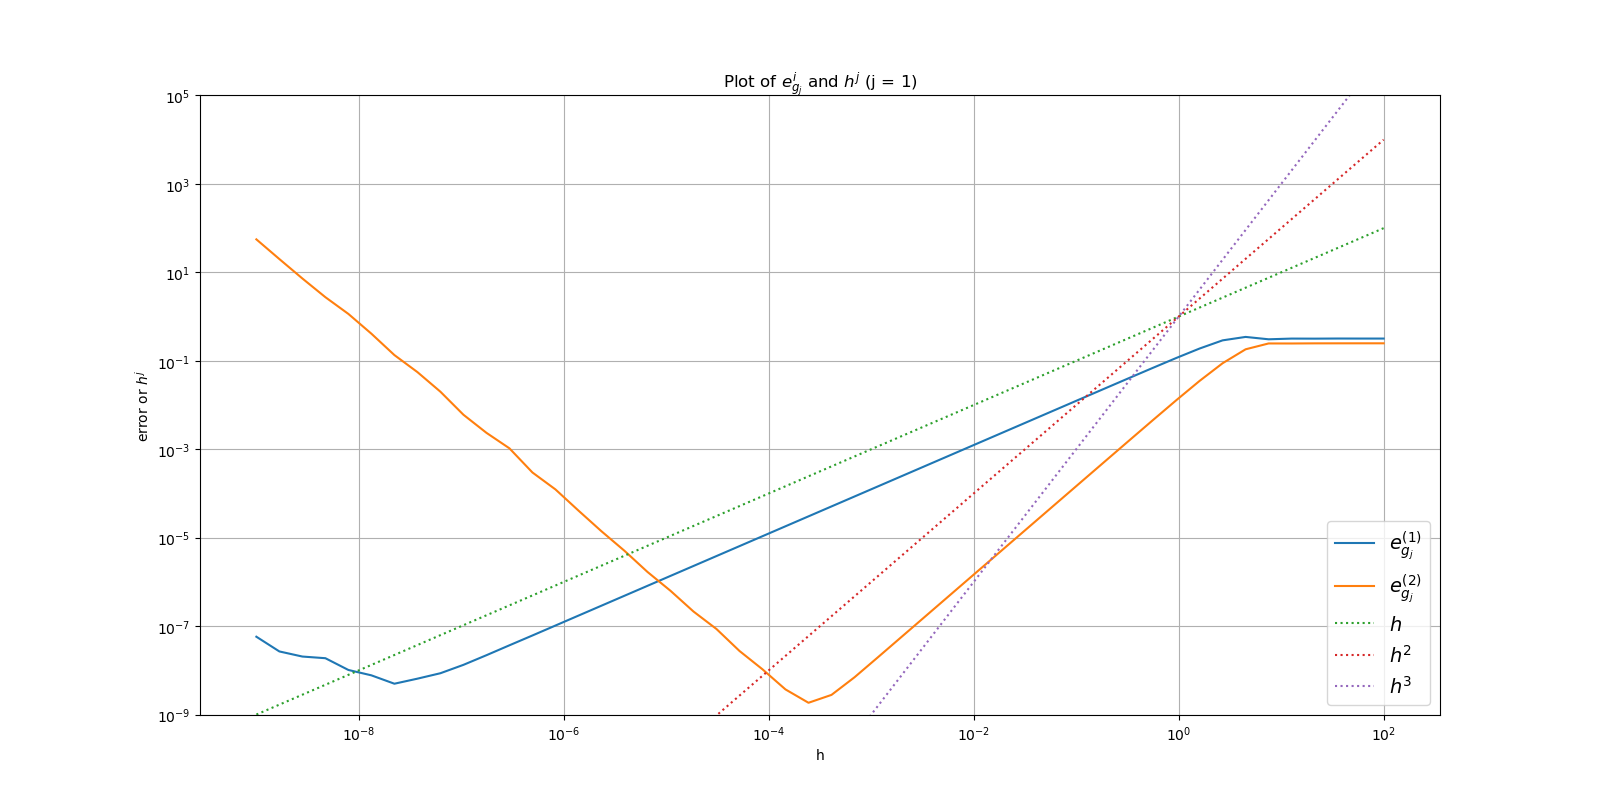
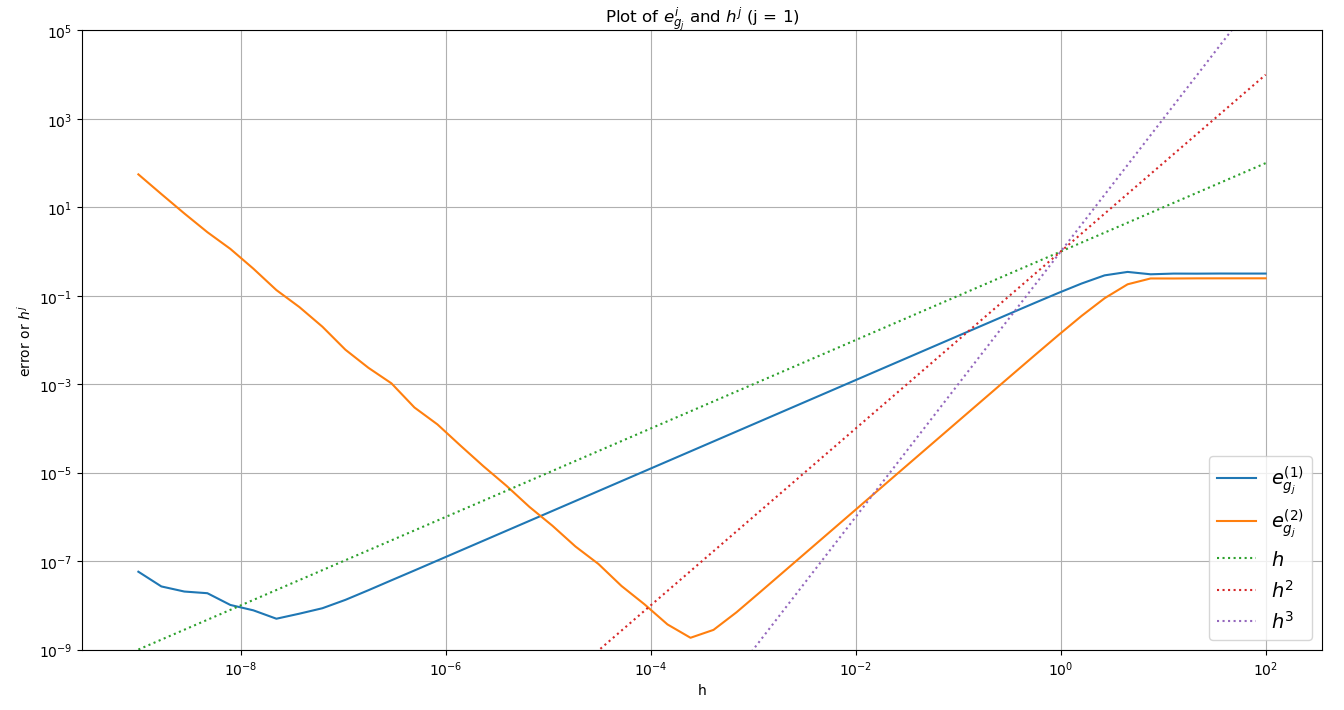
new image, new margins, new shit.

diff --git a/first_gate/protocol/contents/experiment1.tex b/first_gate/protocol/contents/experiment1.tex
@@ -17,21 +17,20 @@ We first want to get a picture of what we are working with. Therefore, using the
     \frac{\pi}{3} \text{,} \hspace{0.5cm} \frac{\pi}{4} \text{,} \hspace{0.5cm} \frac{\pi}{5} \text{,} \hspace{0.5cm} \frac{\pi}{10} \text{.}
 \end{align*}
 See figure \ref{fig:exp1_h} for the resulting graph.
-\pagebreak
 
 %%% figure the 4 plots for the h
 \begin{figure}[h!]
     \centering
-    \begin{subfigure}[b]{0.4\linewidth}
+    \begin{subfigure}[b]{0.49\linewidth}
         \includegraphics[width=\linewidth]{graphics/plot_h/exp1_huge_h.png}
     \end{subfigure}
-    \begin{subfigure}[b]{0.4\linewidth}
+    \begin{subfigure}[b]{0.49\linewidth}
         \includegraphics[width=\linewidth]{graphics/plot_h/exp1_large_h.png}
     \end{subfigure}
-    \begin{subfigure}[b]{0.4\linewidth}
+    \begin{subfigure}[b]{0.49\linewidth}
         \includegraphics[width=\linewidth]{graphics/plot_h/exp1_small_h.png}
     \end{subfigure}
-    \begin{subfigure}[b]{0.4\linewidth}
+    \begin{subfigure}[b]{0.49\linewidth}
         \includegraphics[width=\linewidth]{graphics/plot_h/exp1_tiny_h.png}
     \end{subfigure}
     \caption{huge}
@@ -42,10 +41,15 @@ As one can clearly see, both \(D^{(1)}_h(x)\) and \(D^{(2)}_h(x)\) merges to the
 
 \subsection{The Anatomy of Errors}
 
-Now, we consider the two errors \(e_f^{(1)}(h)\) and \(e_f^{(2)}(h)\) which are again, the largest disparity between the analytic and the approximation on the interval \(I\). We have drawn the plot (see \ref{xxx}) in double log scale for the error for
+Now, we consider the two errors \(e_f^{(1)}(h)\) and \(e_f^{(2)}(h)\) which are again, the largest disparity between the analytic and the approximation on the interval \(I\). We have drawn the plot (see \ref{fig:exp1_error_plot}) in double log scale for the error for
 \[h \in [10^{-9}, 10^2] \text{.} \]
 
 %%% figure of the error plot
+\begin{figure}[h!]
+    \includegraphics[width=\linewidth]{graphics/error_plot/exp1_error_plot.png}
+    \caption{Error plog}
+    \label{fig:exp1_error_plot}
+\end{figure}
 
 Before we discuss the bad news, let us examine where the theory was right in its prediction. The middle part of \(e_f^{(1)}(h)\) and \(e_f^{(2)}(h)\) are parallel to the lines of \(h\) and \(h^2\) respectively. This is as we hypothesized since the order of convergence of the error are
 \[\mathcal{O}(h) \hspace{0.3cm} \text{for} \hspace{0.3cm} e_f^{(1)}(h) \hspace{0.3cm} \text{and} \hspace{0.3cm} \mathcal{O}(h^2) \hspace{0.3cm} \text{for} \hspace{0.3cm} e_f^{(2)}(h) \text{.}\]

diff --git a/first_gate/protocol/protocol.tex b/first_gate/protocol/protocol.tex
@@ -6,6 +6,7 @@
 \usepackage{amssymb}
 \usepackage{graphicx}
 \usepackage{subcaption}
+\usepackage[margin=0.5in]{geometry}
 
 % GLOBAL SETTINGS
 \setlength\parindent{0pt}
